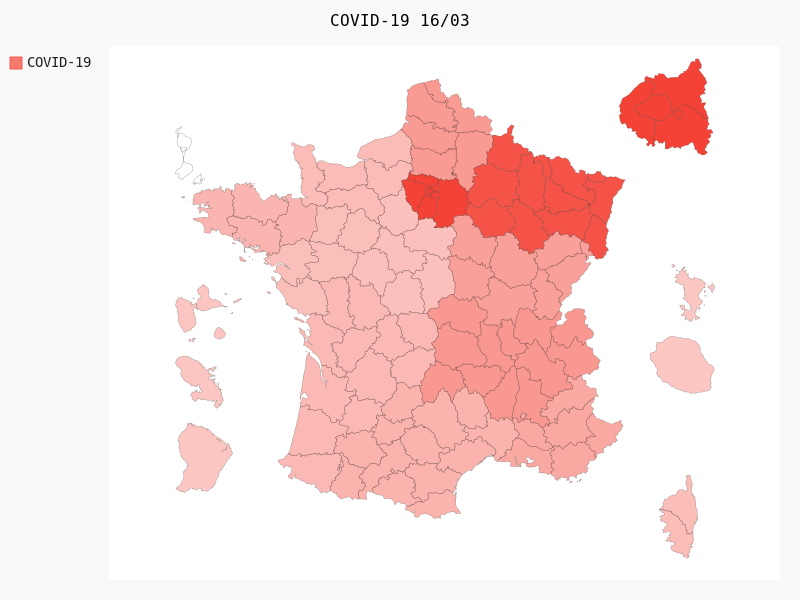
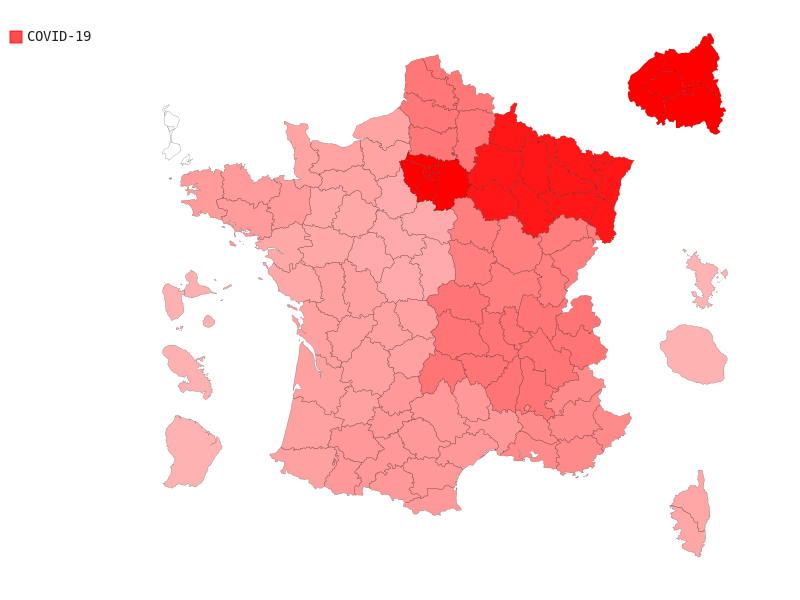
update french report

diff --git a/report/report_france.py b/report/report_france.py
@@ -1,4 +1,8 @@
-"""COVID-19 report for france."""
+"""COVID-19 report for france.
+
+COVID-19 data for France :
+https://www.data.gouv.fr/en/datasets/cas-confirmes-dinfection-au-covid-19-par-region/
+"""
 import numpy as np
 import pandas as pd
 
@@ -7,7 +11,10 @@ from matplotlib.gridspec import GridSpec
 import seaborn as sns
 
 import pygal
+from pygal.style import BlueStyle, Style
 
+sns.set_style("whitegrid")
+plt.rc('font', family="serif")
 
 ###############################################################################
 # load the needed data
@@ -28,39 +35,46 @@ df = df.loc[:, ['Date'] + u_reg]
 df['Date'] = pd.to_datetime(list(df['Date'])).strftime('%d/%m')
 df_reg = df.melt('Date', var_name='Département', value_name='vals')
 depart = np.unique(df_reg['Département'])
+n_depart = len(depart)
+palette = sns.color_palette("tab20")
+
+
+###############################################################################
+# Plotting time-series
+###############################################################################
+
+fig = plt.figure()
+gs = fig.add_gridspec(1, 2)
+ax1 = plt.subplot(gs[0, 0])
+g = sns.factorplot(x="Date", y="vals", hue='Département', data=df_reg,
+                   palette=palette, ax=ax1)
+# ax1.set_yscale('log', basey=10)
+plt.close(fig=2)
+
+
+###############################################################################
+# Plotting France map
+###############################################################################
+
 # get latest covid and build the dict of data
 late_covid = df.iloc[-1, :]
 covid_data = {}
 for reg, dep in df_num_gp.items():
     for _dep in dep:
         covid_data[_dep] = late_covid.loc[reg]
-
-
-n_depart = len(depart)
-# palette = sns.color_palette("hls", n_depart)
-palette = sns.color_palette("tab20")
-
-
-
-
-# ax.set_yscale('log', basey=10)
-
-fr_chart = pygal.maps.fr.Departments()
-fr_chart.title = f"COVID-19 {list(df['Date'])[-1]}"
+# render the map
+custom_style = Style(colors=('red', 'orange'), background='transparent',
+                     plot_background='transparent')
+fr_chart = pygal.maps.fr.Departments(style=custom_style)
 fr_chart.add('COVID-19', covid_data)
 fr_chart.render_to_png('img.png')
-
-
-fig = plt.figure()
-gs = fig.add_gridspec(2, 4)
-ax1 = plt.subplot(gs[:, 0:2])
-g = sns.factorplot(x="Date", y="vals", hue='Département', data=df_reg,
-                   palette=palette, ax=ax1)
-plt.close(fig=2)
+# plot the map
 img = plt.imread('img.png')
-ax = plt.subplot(gs[0, 2])
+ax = plt.subplot(gs[0, 1])
 ax.imshow(img)
-
-# print(img)
+plt.tick_params(axis='both', which='both', bottom=False, left=False,
+                top=False, labelbottom=False, labelleft=False)
+ax.axis('off')
+plt.title(f"COVID-19 {list(df['Date'])[-1]}")
 
 plt.show()
